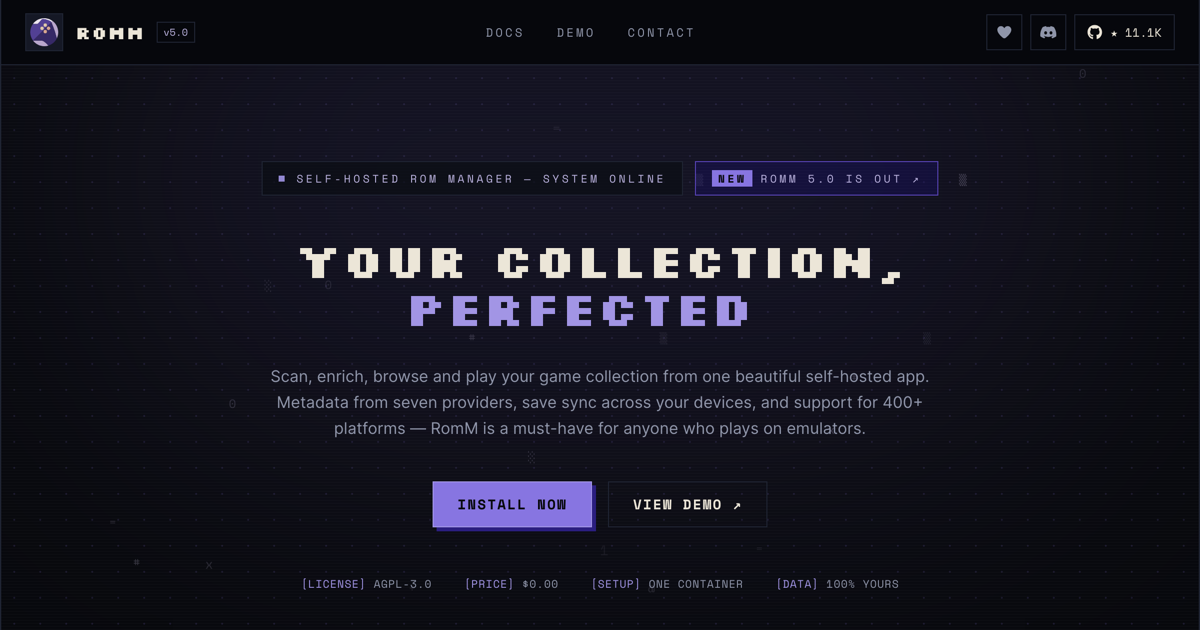
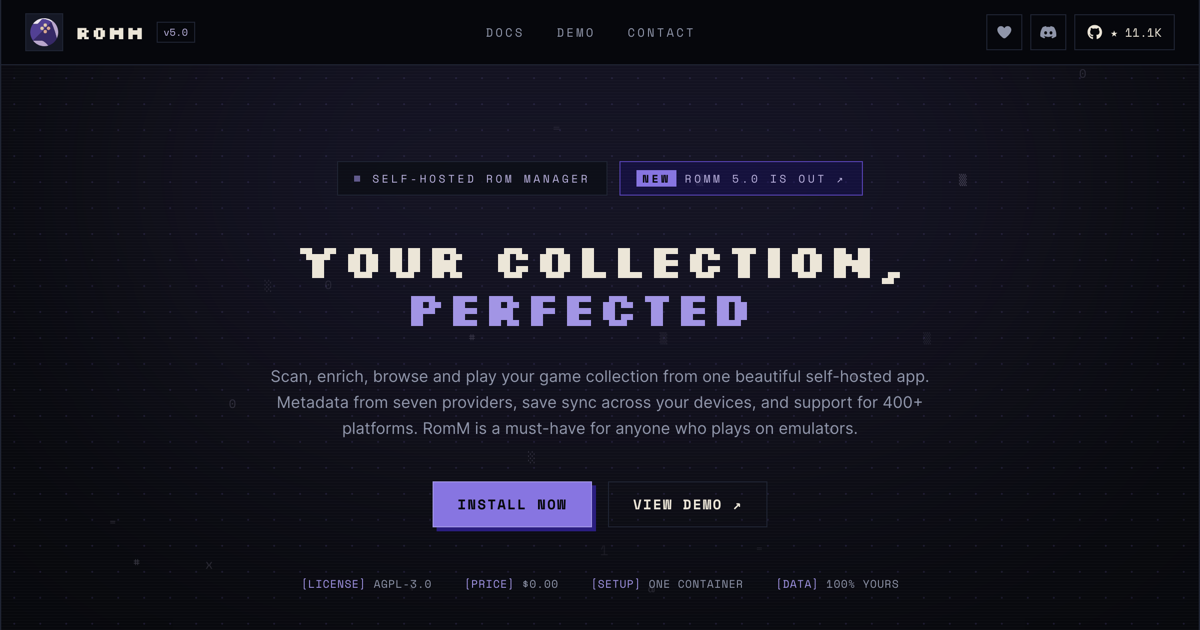
copy: remove em-dashes and the system online status
Rewrite all em-dash constructions as full sentences (hero, features,
apps subtitle, changelog separator now a colon, footer separator now a
middle dot), drop "system online" from the hero status chip, and
regenerate the OG image with the updated copy.

Generated-By: PostHog Code
Task-Id: 13e878e8-5c7c-4ad9-a768-0d0099cad4b9

Changed region(s): [[0.2467, 0.2413, 0.8017, 0.3317], [0.2775, 0.6635, 0.7092, 0.6937]]

diff --git a/pages/index.vue b/pages/index.vue
@@ -197,7 +197,7 @@ onBeforeUnmount(() => window.removeEventListener("keydown", onKeydown));
                 aria-hidden="true"
                 class="h-1.5 w-1.5 animate-pulse bg-primary-400"
               />
-              Self-hosted rom manager — system online
+              Self-hosted rom manager
             </div>
             <a
               href="https://github.com/rommapp/romm/releases/tag/5.0.0"
@@ -223,7 +223,7 @@ onBeforeUnmount(() => window.removeEventListener("keydown", onKeydown));
           <p class="mx-auto mt-8 max-w-2xl leading-relaxed text-muted">
             Scan, enrich, browse and play your game collection from one
             beautiful self-hosted app. Metadata from seven providers, save sync
-            across your devices, and support for 400+ platforms — RomM is a
+            across your devices, and support for 400+ platforms. RomM is a
             must-have for anyone who plays on emulators.
           </p>
 
@@ -264,7 +264,7 @@ onBeforeUnmount(() => window.removeEventListener("keydown", onKeydown));
                 <span
                   class="font-mono text-[10px] uppercase tracking-widest text-muted"
                 >
-                  romm@server:~/library — v5.0
+                  romm@server:~/library [v5.0]
                 </span>
               </div>
               <img
@@ -320,7 +320,7 @@ onBeforeUnmount(() => window.removeEventListener("keydown", onKeydown));
                   <span aria-hidden="true" class="text-primary-400">+</span>
                   <span>
                     <span class="uppercase text-cream">{{ entry.title }}</span>
-                    <span class="text-muted"> — {{ entry.detail }}</span>
+                    <span class="text-muted">: {{ entry.detail }}</span>
                   </span>
                 </li>
               </ul>
@@ -436,7 +436,7 @@ onBeforeUnmount(() => window.removeEventListener("keydown", onKeydown));
           index="02"
           label="Features"
           title="Every pixel tells a story"
-          subtitle="The most powerful all-in-one app for managing — and playing — your game collection."
+          subtitle="The most powerful all-in-one app for managing and playing your game collection."
         />
 
         <!-- Flagship features -->
@@ -458,7 +458,8 @@ onBeforeUnmount(() => window.removeEventListener("keydown", onKeydown));
             </h3>
             <p class="mt-3 text-sm leading-relaxed text-muted">
               EmulatorJS, MS-DOS and Flash players are built in. Hit Play and
-              you're in the game — no cores to configure, no files to move.
+              you're in the game. There are no cores to configure and no files
+              to move.
             </p>
             <ul
               class="mt-5 space-y-1.5 font-mono text-[11px] uppercase tracking-wider text-muted"
@@ -541,8 +542,8 @@ onBeforeUnmount(() => window.removeEventListener("keydown", onKeydown));
             </h3>
             <p class="mt-3 text-sm leading-relaxed text-muted">
               Cover art, screenshots and deep metadata from IGDB, ScreenScraper,
-              MobyGames, LaunchBox, Hasheous and more — matched by hash, not
-              guesswork.
+              MobyGames, LaunchBox, Hasheous and more. Games are matched by
+              hash, not guesswork.
             </p>
             <ul
               class="mt-5 space-y-1.5 font-mono text-[11px] uppercase tracking-wider text-muted"
@@ -618,7 +619,8 @@ onBeforeUnmount(() => window.removeEventListener("keydown", onKeydown));
                 rel="noopener"
                 class="underline decoration-grid underline-offset-4 transition-colors hover:text-primary-300"
                 >server-side</a
-              >, from stored or uploaded patch files — originals stay untouched.
+              >, from stored or uploaded patch files. Your originals stay
+              untouched.
             </p>
           </div>
 
@@ -669,7 +671,7 @@ onBeforeUnmount(() => window.removeEventListener("keydown", onKeydown));
             </h3>
             <p class="mt-2 text-sm leading-relaxed text-muted">
               AGPL-3.0, no tracking, no upsells. Your games, your data, your
-              server — built by the community, for the community.
+              server. Built by the community, for the community.
             </p>
           </div>
         </div>
@@ -684,7 +686,7 @@ onBeforeUnmount(() => window.removeEventListener("keydown", onKeydown));
           index="03"
           label="Play anywhere"
           title="Your library, on every screen"
-          subtitle="Native apps and integrations that bring your collection to desktops, handhelds and TVs. Pair a device in seconds with a QR code — your saves follow you everywhere."
+          subtitle="Native apps and integrations that bring your collection to desktops, handhelds and TVs. Pair a device in seconds with a QR code, and your saves follow you everywhere."
         />
 
         <div class="mt-16 flex flex-col gap-20">
@@ -1130,7 +1132,7 @@ onBeforeUnmount(() => window.removeEventListener("keydown", onKeydown));
           class="flex flex-wrap items-center justify-between gap-4 border-t border-grid px-6 py-4 font-mono text-[10px] uppercase tracking-[0.2em] text-muted"
         >
           <span>Your collection, perfected.</span>
-          <span class="hidden md:block">© The RomM Project — AGPL-3.0</span>
+          <span class="hidden md:block">© The RomM Project · AGPL-3.0</span>
           <img
             src="https://app.aikido.dev/assets/badges/label-only-dark-theme.svg"
             alt="Aikido Security Audit Report"

diff --git a/components/GlyphField.vue b/components/GlyphField.vue
@@ -1,6 +1,6 @@
 <script setup lang="ts">
 // Scattered terminal glyphs (Phantom-style). Positions come from a seeded
-// LCG so server and client render the exact same field — no hydration drift.
+// LCG so server and client render the exact same field, with no hydration drift.
 const GLYPHS = ["+", "x", "=", "#", "0", "1", "░", "▒", "@"];
 
 let seed = 1337;
